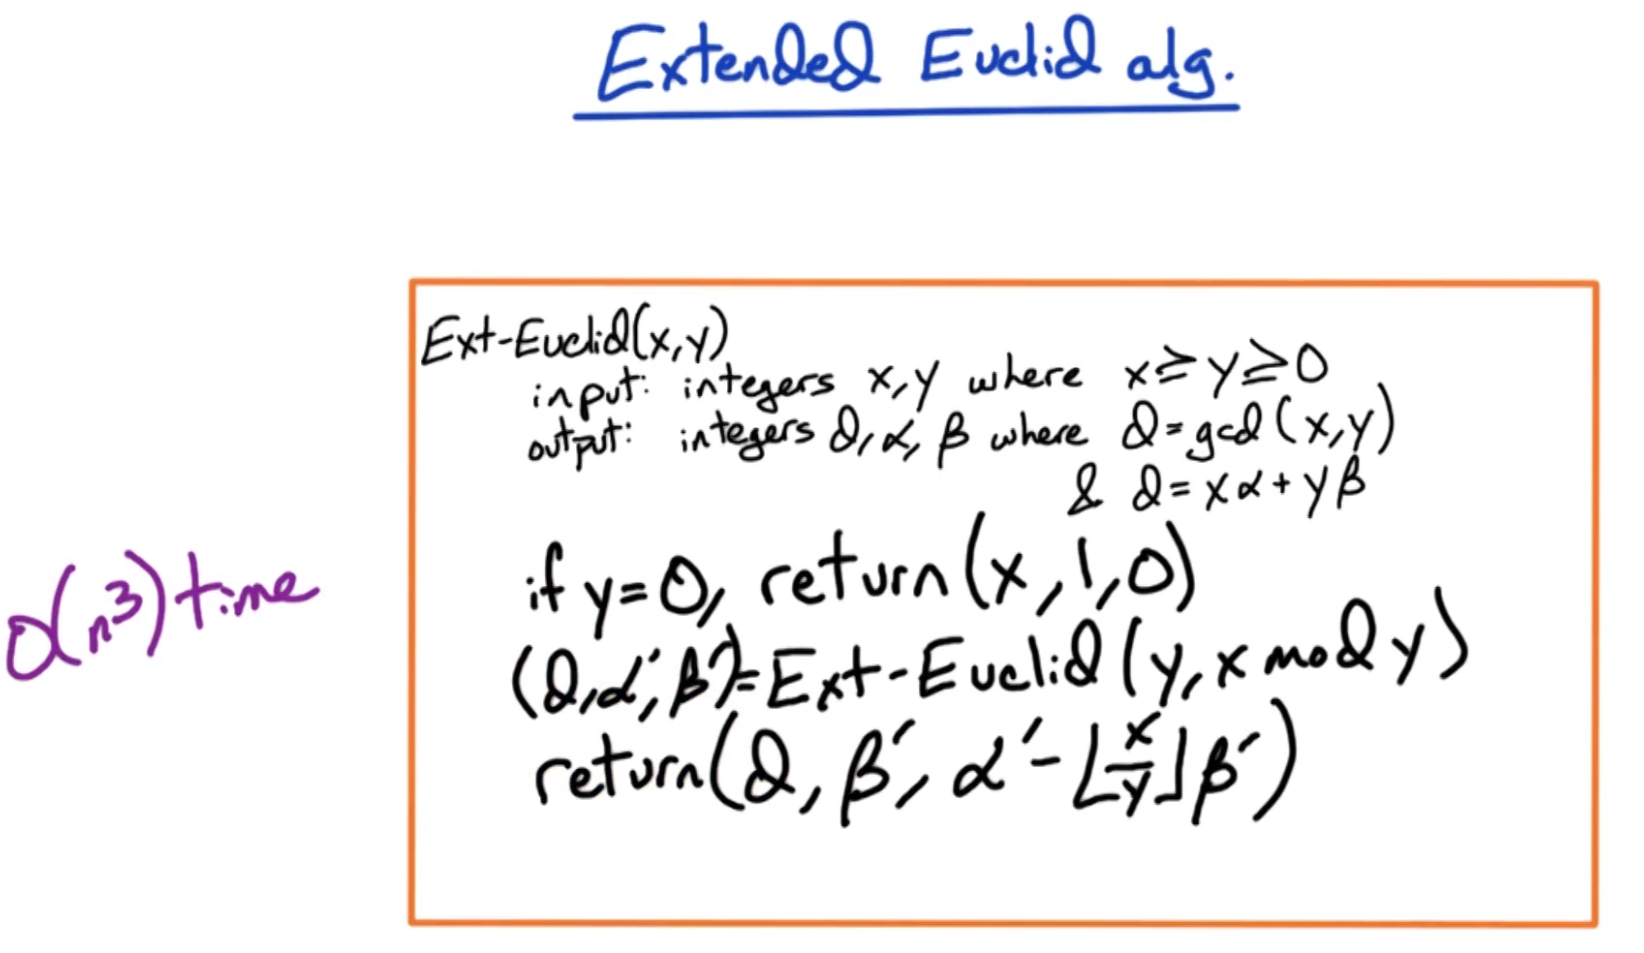
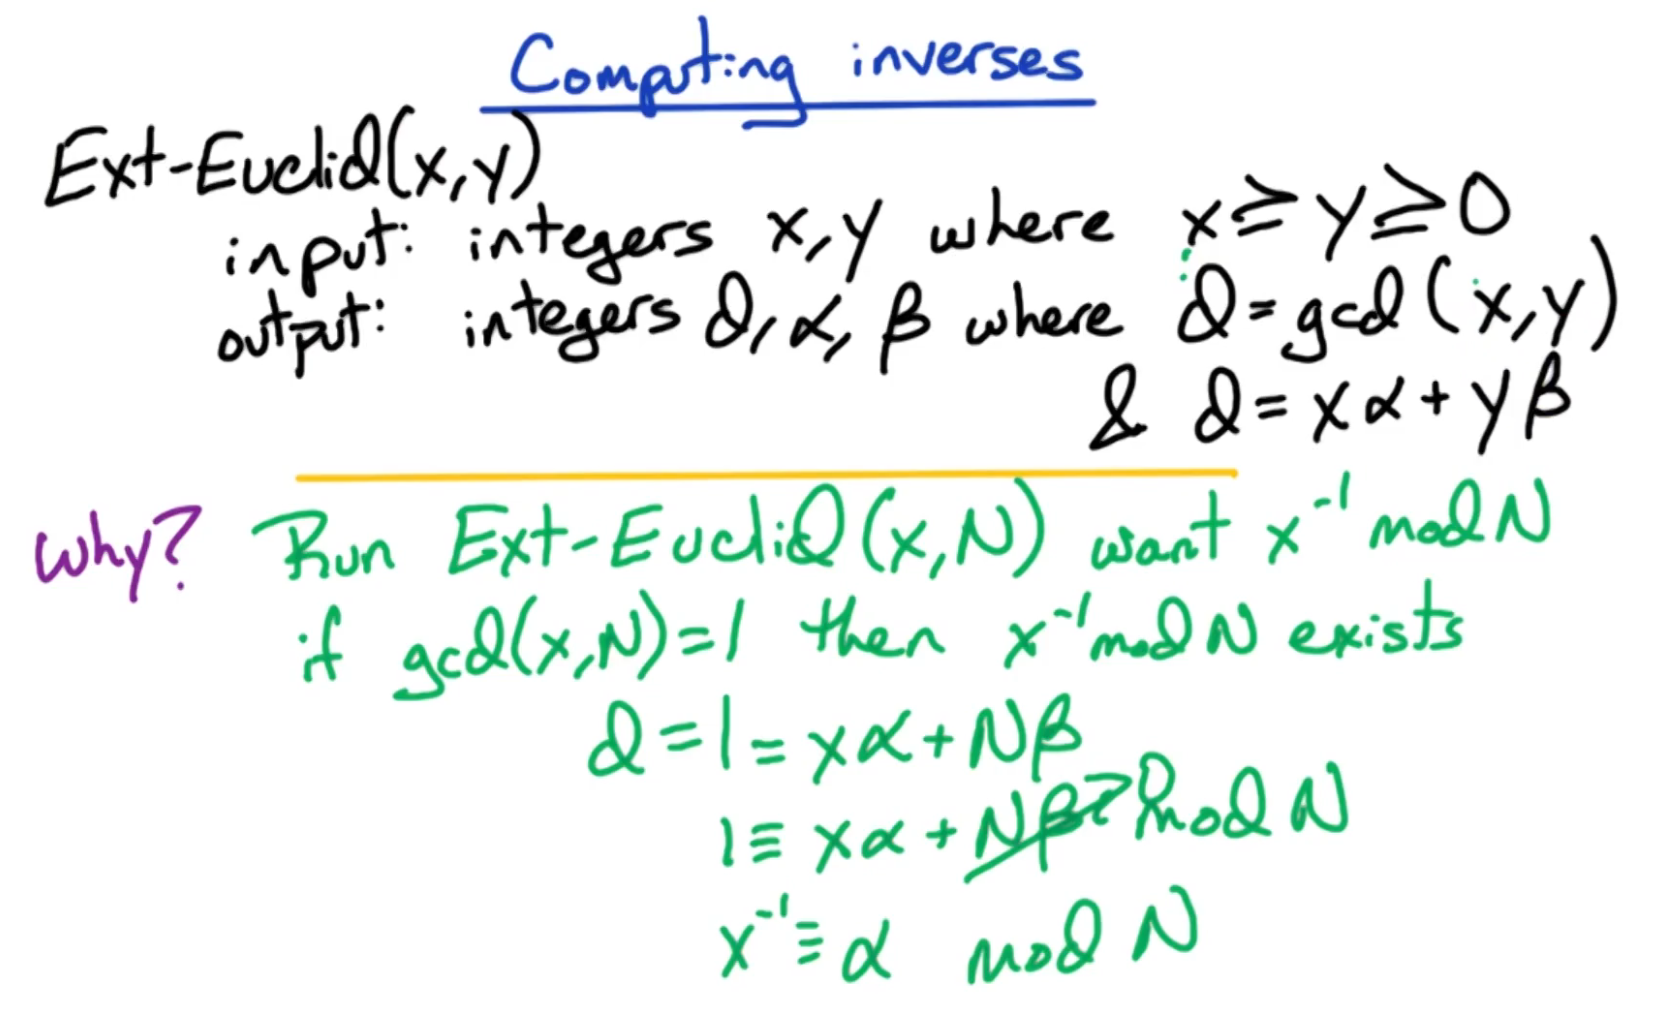
WIP CS 6515 04-RA1

Changed region(s): [[0.0, 0.0, 0.9927, 0.9738], [0.5584, 0.1826, 0.6825, 0.2434], [0.5274, 0.1826, 0.5584, 0.213]]

diff --git a/cs-6515/02-randomized-algorithms.md b/cs-6515/02-randomized-algorithms.md
@@ -676,6 +676,70 @@ Therefore, it is again strictly the case that $x \mod y < \frac{x}{2}$ .
 > [!NOTE]
 > ***Instructor's Note***: See also [DPV] Chapter 1.2.5 (Modular division).
 
+Now, let us consider how to compute multiplicative inverses using Euclid's algorithm (cf. Section 19) via corresponding **extended Euclid algorithm**.
+
+![](./assets/04-RA1-025.png){ width=650px }
+
+To accomplish this, the algorithm takes as ***inputs*** the integer $x$ and $y$ as before, similarly defined as:
+
+> integers $x,y$ where $x \ge y \ge 0$
+
+where (as before) $x$ and $y$ are ordered.
+
+However, the ***output*** of this algorithm is three integer parameters $d$ , $\alpha$ , and $\beta$ , defined as:
+
+> integers $d$ , $\alpha$ , and $\beta$ , where $d = {\text{gcd}}(x,y)$ and $d = x\alpha + y\beta$
+
+Therefore, $d$ has the equivalent output as before in Euclid's algorithm. However, the additional parameters $\alpha$ and $\beta$ satisfy the additional constraint/relationship $d = x\alpha + y\beta$ .
+
+So, then, what is the purpose of $\alpha$ and $\beta$ ?
+
+Recall that the objective of this algorithm is to compute multiplicative inverses, i.e., running algorithm ${\text{Ext-Euclid}}(x,N)$ . However, first we must determine whether $x^{-1} \mod N$ even exists.
+
+To determine this, we see if $x$ and $N$ are relatively prime (cf. Section 12) via ${\text{gcd}}(x,N) = 1$ , which in turn implies the existence of $x^{-1} \mod N$ accordingly.
+
+Correspondingly, $d$ contains the result of ${\text{gcd}}(x,N)$ . Therefore, if $d = 1$ , then the following relationship holds:
+
+$$
+d = 1 = x\alpha + N\beta
+$$
+
+Furthermore, if we take ${\text{mod}}$ of both sides, this gives congruence:
+
+$$
+1 \equiv x\alpha + N\beta \mod N
+$$
+
+Per the second term on the right-hand side $N\beta$ reduces to $0$ , i.e.,:
+
+$$
+1 \equiv x\alpha + 0\beta \mod N
+$$
+
+This in turn simplifies to:
+
+$$
+1 \equiv x\alpha \mod N
+$$
+
+which is simply the definition of the multiplicative inverse (cf. Section 10), i.e., $\alpha$ and $x \mod N$ are multiplicative inverses. This relationship can be further re-expressed equivalently as follows:
+
+$$
+x^{-1} \equiv \alpha \mod N
+$$
+
+By similar rationale, in the case where $d = 1$ , $\beta$ and $N \mod x$ are also multiplicative inverses.
+
+Therefore, if $x$ and $y$ are relatively prime (i.e., $d = {\text{gcd}}(x,y) = 1$ ), then $\alpha$ and $\beta$ correspondingly represent the following:
+
+$$
+\alpha \equiv x^{-1} \mod y
+$$
+
+$$
+\beta \equiv y^{-1} \mod x
+$$
+
 ### 21. Extended Euclid Algorithm
 
 > [!NOTE]
